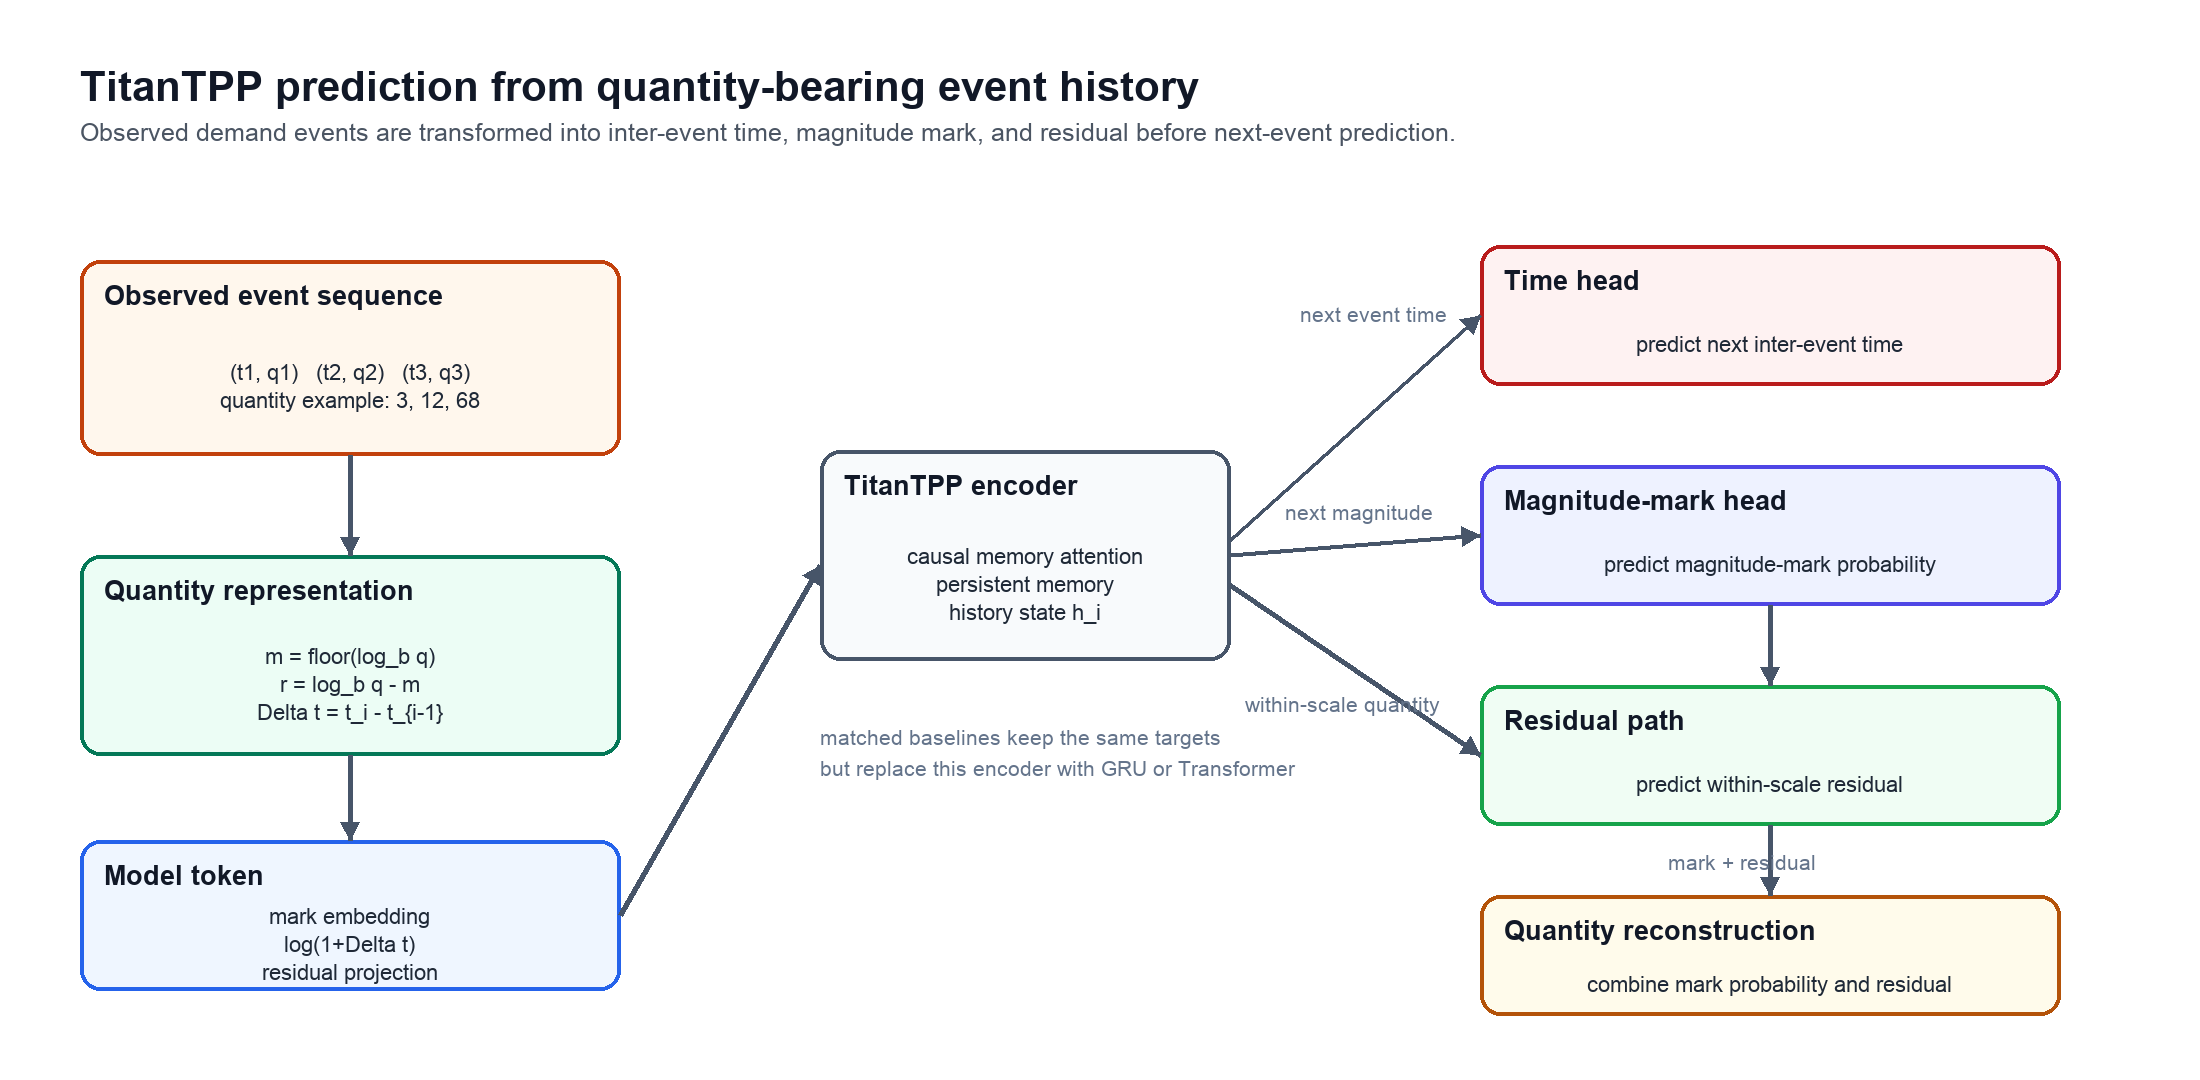
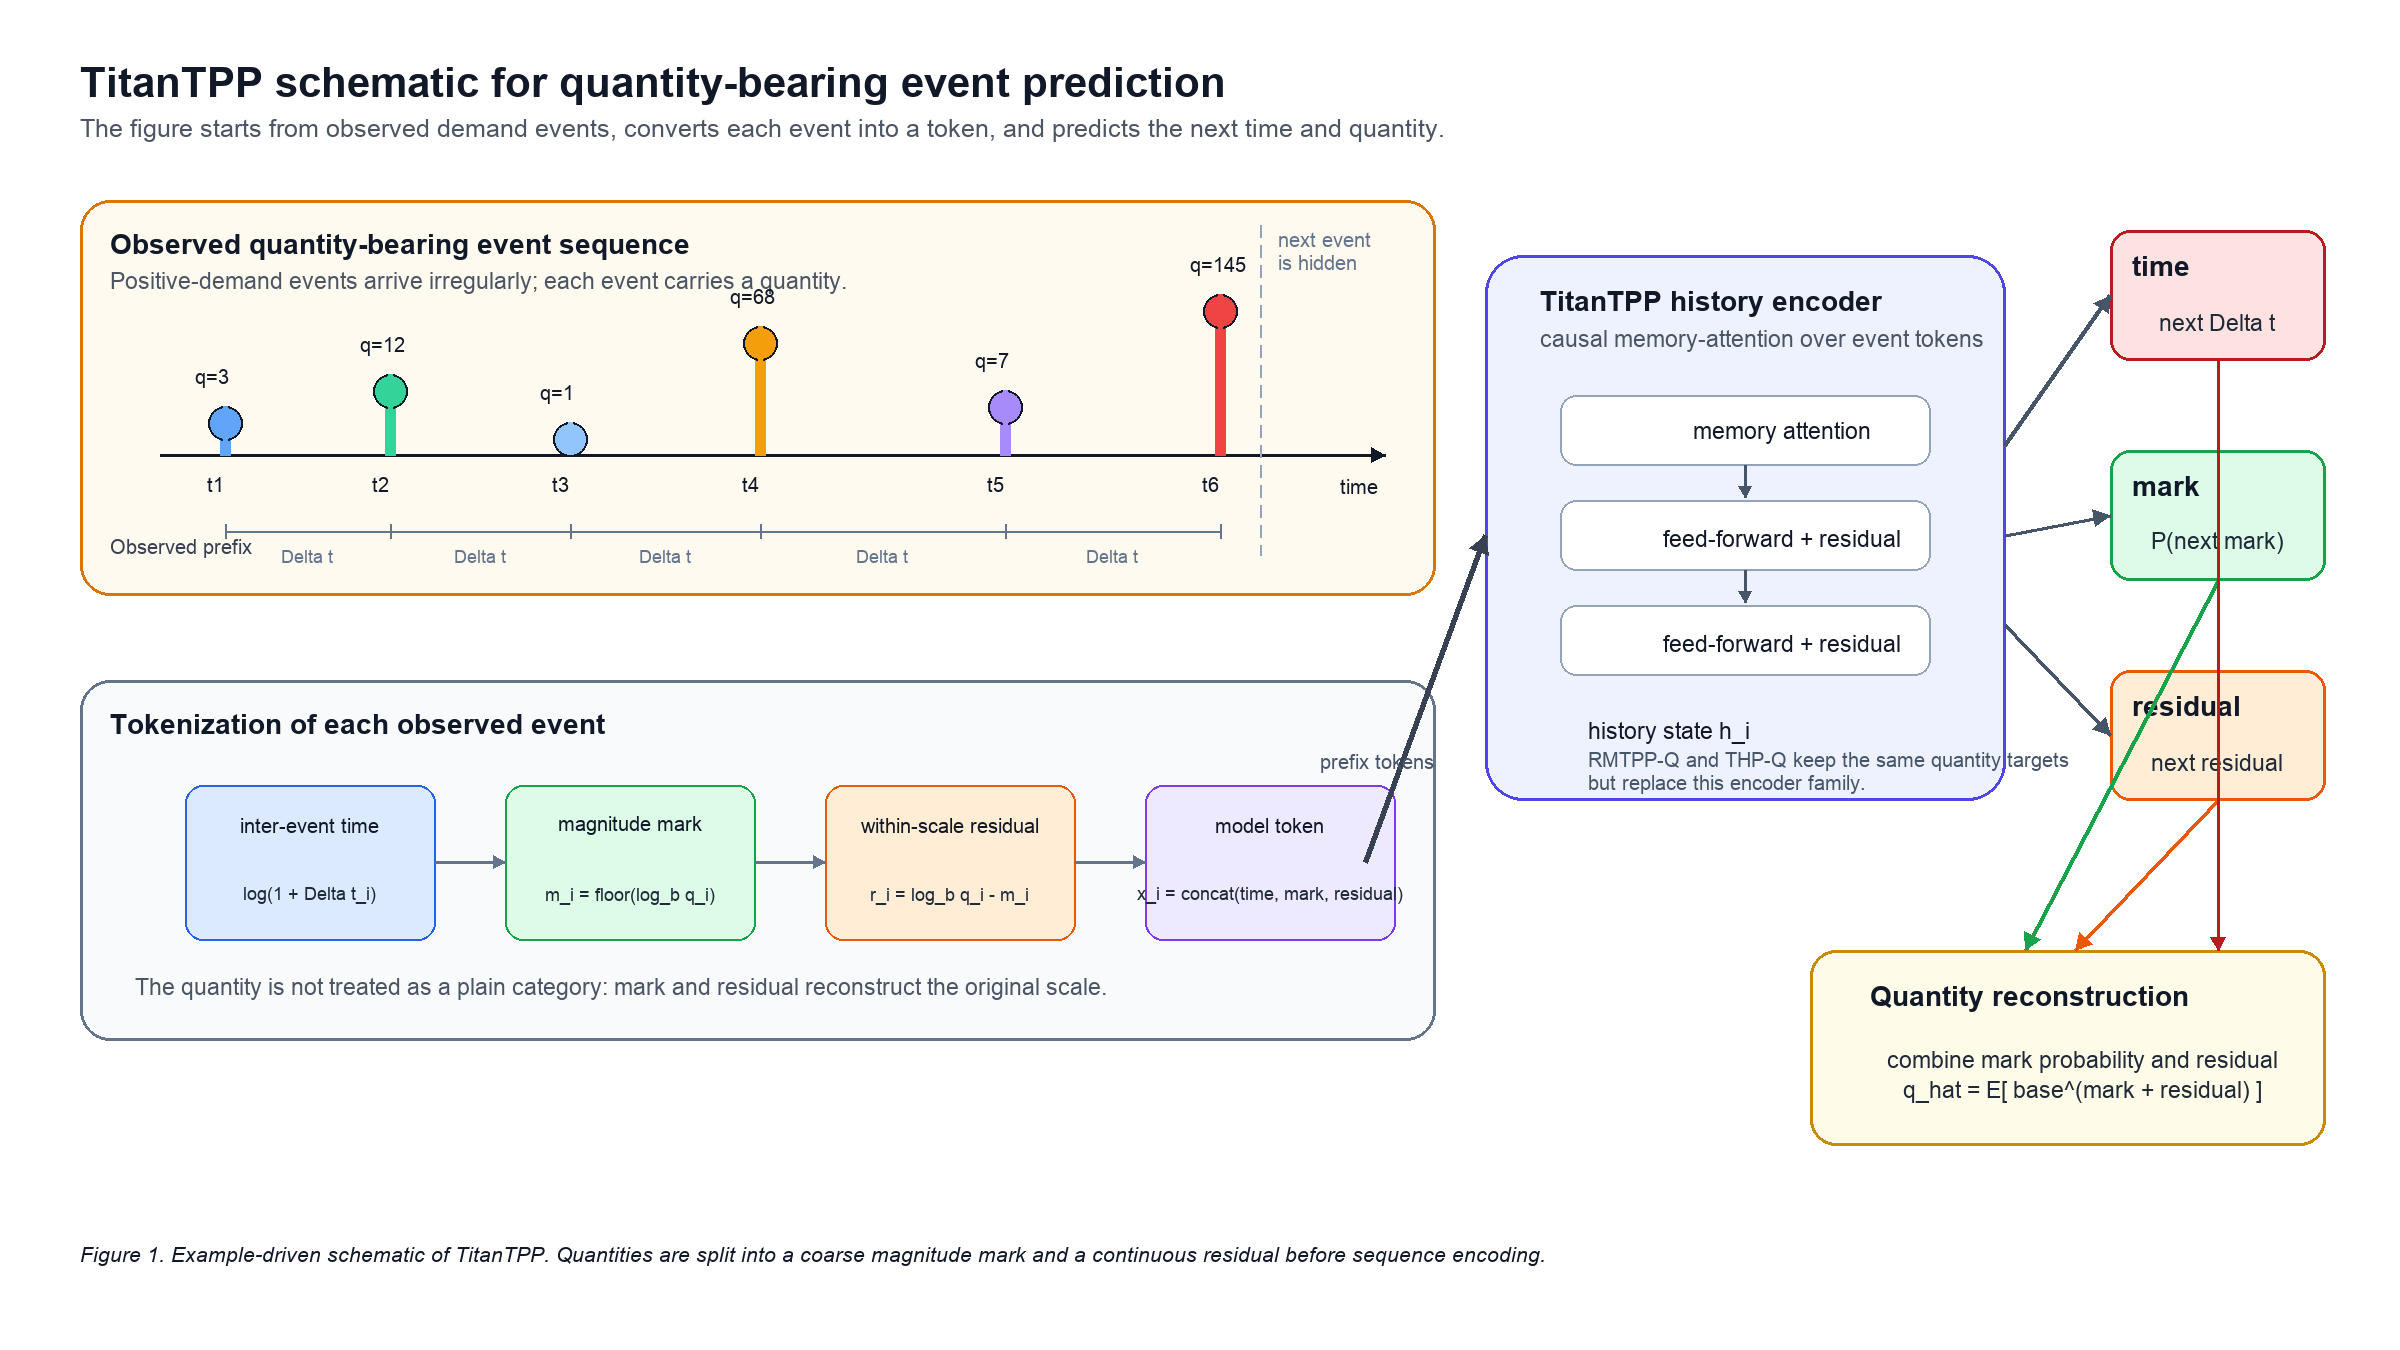
fig: redraw titantpp event sequence schematic

diff --git a/paper/scripts/build_titantpp_event_sequence_figure.py b/paper/scripts/build_titantpp_event_sequence_figure.py
@@ -9,15 +9,21 @@ ROOT = Path(__file__).resolve().parents[2]
 OUT_DIR = ROOT / "paper" / "figures"
 OUT_DIR.mkdir(parents=True, exist_ok=True)
 
-W, H = 2200, 1080
+W, H = 2400, 1350
 
 
-def font(size: int, bold: bool = False) -> ImageFont.FreeTypeFont | ImageFont.ImageFont:
-    candidates = [
-        "/System/Library/Fonts/Supplemental/Arial Bold.ttf" if bold else "/System/Library/Fonts/Supplemental/Arial.ttf",
-        "/System/Library/Fonts/Helvetica.ttc",
-        "/Library/Fonts/Arial.ttf",
-    ]
+def font(size: int, bold: bool = False, italic: bool = False) -> ImageFont.FreeTypeFont | ImageFont.ImageFont:
+    if italic:
+        candidates = [
+            "/System/Library/Fonts/Supplemental/Arial Italic.ttf",
+            "/System/Library/Fonts/Helvetica.ttc",
+        ]
+    else:
+        candidates = [
+            "/System/Library/Fonts/Supplemental/Arial Bold.ttf" if bold else "/System/Library/Fonts/Supplemental/Arial.ttf",
+            "/System/Library/Fonts/Helvetica.ttc",
+            "/Library/Fonts/Arial.ttf",
+        ]
     for path in candidates:
         try:
             return ImageFont.truetype(path, size=size)
@@ -28,156 +34,222 @@ def font(size: int, bold: bool = False) -> ImageFont.FreeTypeFont | ImageFont.Im
 
 TITLE = font(42, bold=True)
 SUBTITLE = font(25)
-LABEL = font(27, bold=True)
-BODY = font(22)
-SMALL = font(21)
+LABEL = font(28, bold=True)
+BODY = font(23)
+SMALL = font(20)
+TINY = font(18)
+ITALIC = font(21, italic=True)
 
 
-def multiline_center(
-    draw: ImageDraw.ImageDraw,
-    box: tuple[int, int, int, int],
-    text: str,
-    fnt: ImageFont.ImageFont,
-    fill: str = "#1f2937",
-    spacing: int = 8,
-) -> None:
-    x0, y0, x1, y1 = box
-    lines = text.split("\n")
-    heights = []
-    widths = []
-    for line in lines:
-        bbox = draw.textbbox((0, 0), line, font=fnt)
-        widths.append(bbox[2] - bbox[0])
-        heights.append(bbox[3] - bbox[1])
-    total_h = sum(heights) + spacing * (len(lines) - 1)
-    y = y0 + ((y1 - y0) - total_h) // 2
-    for line, w, h in zip(lines, widths, heights):
-        draw.text((x0 + ((x1 - x0) - w) // 2, y), line, font=fnt, fill=fill)
-        y += h + spacing
-
-
-def rounded_box(
+def text_center(
     draw: ImageDraw.ImageDraw,
     xy: tuple[int, int, int, int],
-    title: str,
-    body: str,
+    text: str,
+    fnt: ImageFont.ImageFont,
+    fill: str = "#111827",
+    spacing: int = 7,
+) -> None:
+    x0, y0, x1, y1 = xy
+    lines = text.split("\n")
+    metrics = [draw.textbbox((0, 0), line, font=fnt) for line in lines]
+    widths = [box[2] - box[0] for box in metrics]
+    heights = [box[3] - box[1] for box in metrics]
+    total_h = sum(heights) + spacing * (len(lines) - 1)
+    y = y0 + ((y1 - y0) - total_h) // 2
+    for line, width, height in zip(lines, widths, heights):
+        draw.text((x0 + ((x1 - x0) - width) // 2, y), line, font=fnt, fill=fill)
+        y += height + spacing
+
+
+def rounded(
+    draw: ImageDraw.ImageDraw,
+    xy: tuple[int, int, int, int],
+    *,
     fill: str,
     outline: str,
+    radius: int = 24,
+    width: int = 3,
 ) -> None:
-    draw.rounded_rectangle(xy, radius=20, fill=fill, outline=outline, width=4)
-    x0, y0, x1, y1 = xy
-    draw.text((x0 + 24, y0 + 20), title, font=LABEL, fill="#111827")
-    multiline_center(draw, (x0 + 24, y0 + 72, x1 - 24, y1 - 18), body, BODY)
+    draw.rounded_rectangle(xy, radius=radius, fill=fill, outline=outline, width=width)
 
 
-def arrow(draw: ImageDraw.ImageDraw, start: tuple[int, int], end: tuple[int, int], color: str = "#475569") -> None:
-    draw.line([start, end], fill=color, width=5)
+def arrow(
+    draw: ImageDraw.ImageDraw,
+    start: tuple[int, int],
+    end: tuple[int, int],
+    *,
+    color: str = "#374151",
+    width: int = 4,
+    head: int = 16,
+) -> None:
+    draw.line([start, end], fill=color, width=width)
     x0, y0 = start
     x1, y1 = end
     dx, dy = x1 - x0, y1 - y0
-    length = max((dx * dx + dy * dy) ** 0.5, 1)
+    length = max((dx * dx + dy * dy) ** 0.5, 1.0)
     ux, uy = dx / length, dy / length
     px, py = -uy, ux
-    size = 18
-    p1 = (x1 - ux * size + px * size * 0.55, y1 - uy * size + py * size * 0.55)
-    p2 = (x1 - ux * size - px * size * 0.55, y1 - uy * size - py * size * 0.55)
+    p1 = (x1 - ux * head + px * head * 0.55, y1 - uy * head + py * head * 0.55)
+    p2 = (x1 - ux * head - px * head * 0.55, y1 - uy * head - py * head * 0.55)
     draw.polygon([end, p1, p2], fill=color)
+
+
+def dashed_line(
+    draw: ImageDraw.ImageDraw,
+    start: tuple[int, int],
+    end: tuple[int, int],
+    *,
+    fill: str,
+    width: int = 2,
+    dash: int = 12,
+    gap: int = 8,
+) -> None:
+    x0, y0 = start
+    x1, y1 = end
+    dx, dy = x1 - x0, y1 - y0
+    length = max((dx * dx + dy * dy) ** 0.5, 1.0)
+    ux, uy = dx / length, dy / length
+    pos = 0.0
+    while pos < length:
+        seg = min(dash, length - pos)
+        sx, sy = x0 + ux * pos, y0 + uy * pos
+        ex, ey = x0 + ux * (pos + seg), y0 + uy * (pos + seg)
+        draw.line([(sx, sy), (ex, ey)], fill=fill, width=width)
+        pos += dash + gap
+
+
+def draw_event_sequence(draw: ImageDraw.ImageDraw) -> None:
+    panel = (80, 200, 1435, 595)
+    rounded(draw, panel, fill="#fffaf0", outline="#d97706", radius=30, width=3)
+    draw.text((110, 228), "Observed quantity-bearing event sequence", font=LABEL, fill="#111827")
+    draw.text((110, 268), "Positive-demand events arrive irregularly; each event carries a quantity.", font=BODY, fill="#4b5563")
+
+    axis_y = 455
+    draw.line([(160, axis_y), (1325, axis_y)], fill="#111827", width=3)
+    arrow(draw, (1325, axis_y), (1385, axis_y), color="#111827", width=3, head=14)
+    draw.text((1340, axis_y + 20), "time", font=SMALL, fill="#111827")
+
+    events = [
+        (225, 3, 2, "#60a5fa"),
+        (390, 12, 4, "#34d399"),
+        (570, 1, 1, "#93c5fd"),
+        (760, 68, 7, "#f59e0b"),
+        (1005, 7, 3, "#a78bfa"),
+        (1220, 145, 9, "#ef4444"),
+    ]
+    for idx, (x, qty, height_unit, color) in enumerate(events, start=1):
+        bar_h = 16 * height_unit
+        draw.line([(x, axis_y), (x, axis_y - bar_h)], fill=color, width=11)
+        draw.ellipse((x - 17, axis_y - bar_h - 17, x + 17, axis_y - bar_h + 17), fill=color, outline="#111827", width=2)
+        draw.line([(x, axis_y - bar_h - 17), (x, axis_y - 6)], fill=color, width=5)
+        draw.text((x - 18, axis_y + 18), f"t{idx}", font=SMALL, fill="#111827")
+        draw.text((x - 30, axis_y - bar_h - 58), f"q={qty}", font=SMALL, fill="#111827")
+        if idx > 1:
+            prev_x = events[idx - 2][0]
+            y = axis_y + 76
+            draw.line([(prev_x, y), (x, y)], fill="#64748b", width=2)
+            draw.line([(prev_x, y - 7), (prev_x, y + 7)], fill="#64748b", width=2)
+            draw.line([(x, y - 7), (x, y + 7)], fill="#64748b", width=2)
+            text_center(draw, (prev_x, y + 8, x, y + 36), "Delta t", TINY, fill="#64748b")
+
+    draw.text((110, 535), "Observed prefix", font=SMALL, fill="#374151")
+    dashed_line(draw, (1260, 225), (1260, 555), fill="#94a3b8", width=2)
+    draw.text((1278, 228), "next event\nis hidden", font=SMALL, fill="#64748b")
+
+
+def draw_tokenization(draw: ImageDraw.ImageDraw) -> None:
+    panel = (80, 680, 1435, 1040)
+    rounded(draw, panel, fill="#f8fafc", outline="#64748b", radius=30, width=3)
+    draw.text((110, 708), "Tokenization of each observed event", font=LABEL, fill="#111827")
+
+    cols = [
+        (185, "inter-event time", "log(1 + Delta t_i)", "#dbeafe", "#2563eb"),
+        (505, "magnitude mark", "m_i = floor(log_b q_i)", "#dcfce7", "#16a34a"),
+        (825, "within-scale residual", "r_i = log_b q_i - m_i", "#ffedd5", "#ea580c"),
+        (1145, "model token", "x_i = concat(time, mark, residual)", "#ede9fe", "#7c3aed"),
+    ]
+    for x, title, body, fill, outline in cols:
+        rounded(draw, (x, 785, x + 250, 940), fill=fill, outline=outline, radius=18, width=2)
+        text_center(draw, (x + 10, 802, x + 240, 842), title, SMALL, fill="#111827")
+        text_center(draw, (x + 12, 860, x + 238, 925), body, TINY, fill="#1f2937")
+
+    arrow(draw, (435, 862), (505, 862), color="#64748b", width=3, head=12)
+    arrow(draw, (755, 862), (825, 862), color="#64748b", width=3, head=12)
+    arrow(draw, (1075, 862), (1145, 862), color="#64748b", width=3, head=12)
+    draw.text((135, 974), "The quantity is not treated as a plain category: mark and residual reconstruct the original scale.", font=BODY, fill="#4b5563")
+
+
+def draw_encoder_and_heads(draw: ImageDraw.ImageDraw) -> None:
+    enc = (1485, 255, 2005, 800)
+    rounded(draw, enc, fill="#eef2ff", outline="#4f46e5", radius=38, width=3)
+    draw.text((1540, 285), "TitanTPP history encoder", font=LABEL, fill="#111827")
+    draw.text((1540, 326), "causal memory-attention over event tokens", font=BODY, fill="#4b5563")
+
+    layer_y = [395, 500, 605]
+    for i, y in enumerate(layer_y, start=1):
+        rounded(draw, (1560, y, 1930, y + 70), fill="#ffffff", outline="#94a3b8", radius=16, width=2)
+        label = "memory attention" if i == 1 else "feed-forward + residual"
+        text_center(draw, (1595, y + 8, 1970, y + 62), label, BODY, fill="#111827")
+        if i < len(layer_y):
+            arrow(draw, (1745, y + 70), (1745, layer_y[i] - 3), color="#475569", width=3, head=11)
+
+    draw.text((1588, 718), "history state h_i", font=BODY, fill="#111827")
+    draw.text((1588, 748), "RMTPP-Q and THP-Q keep the same quantity targets\nbut replace this encoder family.", font=SMALL, fill="#475569")
+
+    arrow(draw, (1365, 862), (1485, 535), color="#374151", width=5, head=18)
+    draw.text((1320, 750), "prefix tokens", font=SMALL, fill="#475569")
+
+    heads = [
+        ((2110, 230, 2325, 360), "time", "next Delta t", "#fee2e2", "#b91c1c"),
+        ((2110, 450, 2325, 580), "mark", "P(next mark)", "#dcfce7", "#16a34a"),
+        ((2110, 670, 2325, 800), "residual", "next residual", "#ffedd5", "#ea580c"),
+    ]
+    for xy, title, body, fill, outline in heads:
+        rounded(draw, xy, fill=fill, outline=outline, radius=20, width=3)
+        draw.text((xy[0] + 22, xy[1] + 20), title, font=LABEL, fill="#111827")
+        text_center(draw, (xy[0] + 10, xy[1] + 64, xy[2] - 10, xy[3] - 15), body, BODY, fill="#1f2937")
+
+    arrow(draw, (2005, 445), (2110, 295), color="#475569", width=4, head=16)
+    arrow(draw, (2005, 535), (2110, 515), color="#475569", width=4, head=16)
+    arrow(draw, (2005, 625), (2110, 735), color="#475569", width=4, head=16)
+
+    recon = (1810, 950, 2325, 1145)
+    rounded(draw, recon, fill="#fefce8", outline="#ca8a04", radius=26, width=3)
+    draw.text((1870, 980), "Quantity reconstruction", font=LABEL, fill="#111827")
+    text_center(
+        draw,
+        (1870, 1030, 2295, 1118),
+        "combine mark probability and residual\nq_hat = E[ base^(mark + residual) ]",
+        BODY,
+        fill="#1f2937",
+    )
+    arrow(draw, (2218, 580), (2025, 950), color="#16a34a", width=4, head=16)
+    arrow(draw, (2218, 800), (2075, 950), color="#ea580c", width=4, head=16)
+    arrow(draw, (2218, 360), (2218, 950), color="#b91c1c", width=3, head=13)
 
 
 def main() -> None:
     img = Image.new("RGB", (W, H), "white")
     draw = ImageDraw.Draw(img)
 
-    draw.text((80, 62), "TitanTPP prediction from quantity-bearing event history", font=TITLE, fill="#111827")
+    draw.text((80, 58), "TitanTPP schematic for quantity-bearing event prediction", font=TITLE, fill="#111827")
     draw.text(
-        (80, 118),
-        "Observed demand events are transformed into inter-event time, magnitude mark, and residual before next-event prediction.",
+        (80, 114),
+        "The figure starts from observed demand events, converts each event into a token, and predicts the next time and quantity.",
         font=SUBTITLE,
         fill="#4b5563",
     )
 
-    rounded_box(
-        draw,
-        (80, 260, 620, 455),
-        "Observed event sequence",
-        "(t1, q1)   (t2, q2)   (t3, q3)\nquantity example: 3, 12, 68",
-        "#fff7ed",
-        "#c2410c",
-    )
-    rounded_box(
-        draw,
-        (80, 555, 620, 755),
-        "Quantity representation",
-        "m = floor(log_b q)\nr = log_b q - m\nDelta t = t_i - t_{i-1}",
-        "#ecfdf5",
-        "#047857",
-    )
-    rounded_box(
-        draw,
-        (80, 840, 620, 990),
-        "Model token",
-        "mark embedding\nlog(1+Delta t)\nresidual projection",
-        "#eff6ff",
-        "#2563eb",
-    )
+    draw_event_sequence(draw)
+    draw_tokenization(draw)
+    draw_encoder_and_heads(draw)
 
-    rounded_box(
-        draw,
-        (820, 450, 1230, 660),
-        "TitanTPP encoder",
-        "causal memory attention\npersistent memory\nhistory state h_i",
-        "#f8fafc",
-        "#475569",
+    draw.text(
+        (80, 1242),
+        "Figure 1. Example-driven schematic of TitanTPP. Quantities are split into a coarse magnitude mark and a continuous residual before sequence encoding.",
+        font=ITALIC,
+        fill="#111827",
     )
-    draw.text((820, 725), "matched baselines keep the same targets", font=SMALL, fill="#64748b")
-    draw.text((820, 756), "but replace this encoder with GRU or Transformer", font=SMALL, fill="#64748b")
-
-    rounded_box(
-        draw,
-        (1480, 245, 2060, 385),
-        "Time head",
-        "predict next inter-event time",
-        "#fef2f2",
-        "#b91c1c",
-    )
-    rounded_box(
-        draw,
-        (1480, 465, 2060, 605),
-        "Magnitude-mark head",
-        "predict magnitude-mark probability",
-        "#eef2ff",
-        "#4f46e5",
-    )
-    rounded_box(
-        draw,
-        (1480, 685, 2060, 825),
-        "Residual path",
-        "predict within-scale residual",
-        "#f0fdf4",
-        "#16a34a",
-    )
-    rounded_box(
-        draw,
-        (1480, 895, 2060, 1015),
-        "Quantity reconstruction",
-        "combine mark probability and residual",
-        "#fffbeb",
-        "#b45309",
-    )
-
-    arrow(draw, (350, 455), (350, 555))
-    arrow(draw, (350, 755), (350, 840))
-    arrow(draw, (620, 915), (820, 565))
-    arrow(draw, (1230, 540), (1480, 315))
-    arrow(draw, (1230, 555), (1480, 535))
-    arrow(draw, (1230, 585), (1480, 755))
-    arrow(draw, (1770, 605), (1770, 685))
-    arrow(draw, (1770, 825), (1770, 895))
-
-    draw.text((1300, 302), "next event time", font=SMALL, fill="#64748b")
-    draw.text((1285, 500), "next magnitude", font=SMALL, fill="#64748b")
-    draw.text((1245, 692), "within-scale quantity", font=SMALL, fill="#64748b")
-    draw.text((1668, 850), "mark + residual", font=SMALL, fill="#64748b")
 
     png = OUT_DIR / "F1_titantpp_event_sequence_architecture.png"
     img.save(png)
